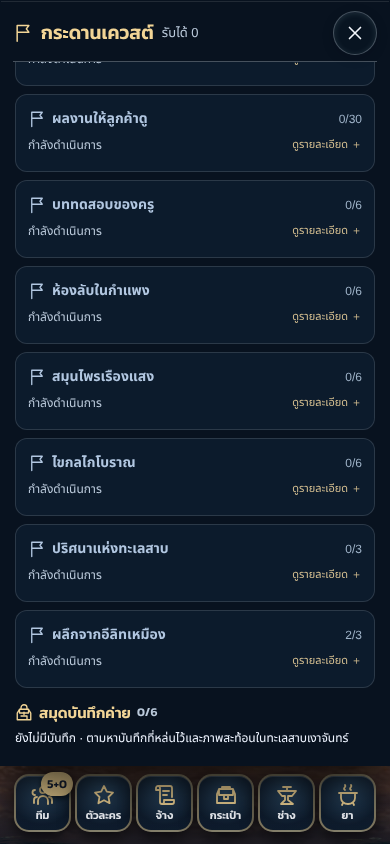
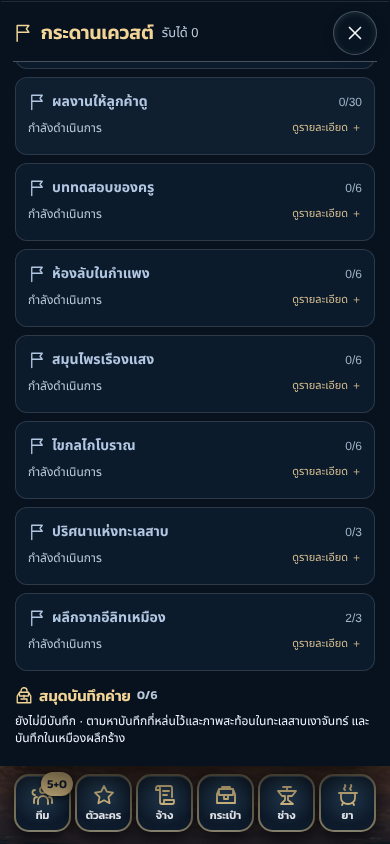
Merge the latest game branch and record the Map 5 side events
Mine sim at 48 seeds keeps the Crystal Giant targets; validation,
state and handoff updated.

Claude-Session: https://claude.ai/code/session_014iPEcJf2LN911FrkYV5BTv

Changed region(s): [[0.0308, 0.0616, 0.9538, 0.8934], [0.7385, 0.0616, 0.7692, 0.0924]]

diff --git a/docs/validation/map5-mine/README_TH.md b/docs/validation/map5-mine/README_TH.md
@@ -41,7 +41,25 @@
 
 Chromium 390×844 ผ่าน 8 รายการในชุดเหมืองและทะเลสาบ ตรวจการจุดตะเกียง ผนึก เติมแสง โหลดกลับมา เปิดศึกยักษ์ผลึก เข้าจากค่าย และเปิดกำแพงด้วยรถแร่ ใช้ภาพเดิมชั่วคราว การตรวจนี้ยืนยันการทำงานของหน้าจอใน Chromium ส่วนภาพและ motion ของยักษ์ผลึกยังรอการทบทวนด้วยคลิปจากสนามพร้อมฮีโร่ห้าคน
 
-งานเสริมที่ยังไม่ได้ทำ ได้แก่ เหตุการณ์สายแร่สด งานค่ายเก็บผลึกอีลิท และสูตรตีอาวุธผลึกจากสมุดบัญชี
+## เหตุการณ์ข้างทาง สูตรอาวุธผลึก และงานค่ายลุงบอร์ก (2026-11-26, PR #366, เซฟ v70)
+
+เจ้าของสั่ง “ทำเหตุการณ์ข้างทางของแผนที่ 5” ตัวเลขทั้งหมดยังเป็นร่าง เครื่องหมายบนแผนที่ยืมภาพของเดิม (Claude เลือกเอง ยังไม่ใช่การอนุมัติภาพจากเจ้าของ)
+
+| เหตุการณ์ | ที่ | ทางเลือก |
+|---|---|---|
+| คนงานติดอยู่ | อุโมงค์ฝั่งตะวันตก (6,13) | ช่วยขุดออก: แร่ 10 เศษกลาง 4 ทุกคนเหนื่อย +1 · เดินผ่าน |
+| รถแร่ทิ้งไว้ | ลานคนงาน (5,23) | ค้นรถแร่: ยาสุ่ม 1 ขวดที่ยังพกได้ (ตาม seed) พกเต็มทุกชนิดได้แร่ 8 · เดินผ่าน |
+| สายแร่สด | อุโมงค์ฝั่งตะวันออก (18,13) | ขุดแร่: แร่ 15 ภัยคุกคามในโซน +12 (ไม่เกินเพดาน) · เดินผ่าน |
+| พ่อค้าแร่ | ลานคนงาน (19,21) | ขายแร่ 10 ได้ทอง 4 สูงสุด 3 ครั้งต่อเที่ยว และขายยาเหมือนพ่อค้าเร่ |
+
+- สมุดบัญชีเหมืองครบ 3 หน้าแล้วกลับค่าย: ได้แร่ 20 ครั้งเดียว และปลดสูตร **อาวุธผลึก** ในแท็บสร้างอาวุธของเตาตีเหล็ก เป็นอาวุธแบบคงที่ระดับหายาก (ขั้น 2) เพิ่มคุณสมบัติโล่ จ่ายแพงกว่าแบบพื้นฐาน แร่ +12 ฝุ่น +4
+- งานค่ายลุงบอร์ก “ผลึกจากอีลิทเหมือง” ชนะอีลิทในเหมือง 3 ครั้ง ได้แร่ 40 ฝุ่น 15 เศษกลาง 10 · บันทึกสองหน้าที่หล่นในเหมืองเข้าสมุดบันทึกค่ายอยู่แล้ว
+- เซฟ v70 เพิ่มตัวนับการขายแร่ `sold` เซฟ v69 โหลดได้ตามเดิม แผนที่เหมืองเป็นรุ่น 2 การเดินทางที่ค้างจากรุ่น 1 กลับค่ายแบบถอนตัว
+- ตรวจคำสั่งฝั่งเซิร์ฟเวอร์รับทางเลือกเหตุการณ์ทุกแบบ ก่อนหน้านี้ไม่รับ “มองต่อ/เบือนหน้า” ของทะเลสาบ
+
+จำลอง 48 seed หลังเพิ่มเหตุการณ์ ([SIM.md](SIM.md)): สายสำรวจผ่านเหมืองครั้งแรก advisor 191/192 casual 190/192 (เดิม 192 และ 191) สายรีบไม่เปลี่ยน (191/192, 150/192) เป้ายักษ์ผลึกยังผ่านทุกข้อ
+
+หน้าจอ 390×844 Chromium: [คนงานติดอยู่](events-2026-11-26/01-event-trapped.webp) · [สายแร่สด](events-2026-11-26/02-event-vein.webp) · [พ่อค้าแร่ขายครบ](events-2026-11-26/03-event-merchant.webp) · [สูตรอาวุธผลึก](events-2026-11-26/04-forge-crystal.webp) · [งานค่ายลุงบอร์ก](events-2026-11-26/05-bork-job.webp) ถ่ายด้วย `npx playwright test tests/browser/mine-events.spec.ts`
 
 ## ภาพและคลิปสำหรับเจ้าของตรวจ (2026-11-26, 390×844 Chromium)
 

diff --git a/CURRENT_STATE.md b/CURRENT_STATE.md
@@ -1,11 +1,11 @@
-# Current state — updated 2026-11-26 (Crystal Giant 4b imported)
+# Current state — updated 2026-11-26 (Map 5 side events)
 
 Keep this file short; dated history lives in `docs/handoffs/CODEX-TO-CLAUDE.md` and `docs/handoffs/archive/`.
 
 ## Game
 
 - Working branch `feature/fateweave-initial-prototype` (not `main`); Pages https://wnau34-nptrn.github.io/asterveil-fateweave/ via `pages.yml` (runs the Chromium suite before deploy).
-- Save **v69** (mine progress; v68 map 4 tide/notes/journal, camp cap; v67 first fate weave; v66 gacha). Phaser/TypeScript/Vite, 1–5 field units, camp Lv/EXP, reserve 3→4→5, carry≤10, fatigue, presets. 15 classes×1 active character; thiran/wila parked. P09 server authority + ledger (`?server=off` for local).
+- Save **v70** (mine ore-merchant counter; v69 mine progress; v68 map 4 tide/notes/journal, camp cap; v67 first fate weave; v66 gacha). Phaser/TypeScript/Vite, 1–5 field units, camp Lv/EXP, reserve 3→4→5, carry≤10, fatigue, presets. 15 classes×1 active character; thiran/wila parked. P09 server authority + ledger (`?server=off` for local).
 - Maps: 1 ซากชายแดน, 2 เส้นทางป่าทึบ, 3 แนวรอยแยก, 4 ทะเลสาบเงาจันทร์, **5 เหมืองผลึกร้าง** (concepts for 4–10: [CHAPTER1_MAPS_TH](docs/design/CHAPTER1_MAPS_TH.md)).
 - **Map 4 (OD-60)**: rules/content/save #336, UI #337 and art #342–#345. Owner approved the four ordinary foes and the map screens 2026-11-23 (“อนุมัติ”). Tide every 8 steps, seal 2 of 3, ferryman → boat, reflections/notes → journal, Lio camp 1 / Cerise camp 2, semi-chibi Water Spirit with six 768px moves and event-driven VFX. [390px review](docs/validation/map4-lake/README_TH.md).
 - Camp level cap = 10 + 3 per first clear past map 2 (≤30); tree points still stop at Lv10.
@@ -29,7 +29,7 @@ Keep this file short; dated history lives in `docs/handoffs/CODEX-TO-CLAUDE.md` 
 
 ## Open items
 
-- Map 5 (OD-60, #356): save v69; giant tuned at 48 seeds (`crystal-giant` v2). Art in game: props, five semi-chibi foes, floors/rails/battle scene (#361–#363). Giant R1 1.32×, 4a approved; 4b (`77a6e4ba`, #359) imported on `claude/mine-boss-4b-intake` with event-driven armour/reflect/collapse/split VFX, owner approved the motion 2026-11-26 (“อนุมัติ”), merged in #365 ([390px review](docs/combat-presentation/mine-boss-slice/README_TH.md)); Shard Beam keeps a code-drawn line. Side events remain. [Brief](docs/handoffs/CODEX-ART-MAP5-MINE-TH.md) · [validation](docs/validation/map5-mine/README_TH.md). Game Feel #351/#352 notes moved to `docs/handoffs/archive/2026-11-26/`.
+- Map 5 (OD-60): complete in game. Save v70, mine map v2, giant tuned at 48 seeds (`crystal-giant` v2); art #357–#363, giant 4b motion approved (“อนุมัติ”, #365). Side events #366: trapped worker, ore cart, fresh vein, ore merchant (ore→gold ×3), ledger → crystal weapon recipe, Bork's elite job ×3. Event markers borrow old props (no Codex brief yet); numbers are drafts. [Validation](docs/validation/map5-mine/README_TH.md).
 - 2026-11-25: boss charge holds sit on the body. Bosses wear a silhouette aura in their own colour: light all battle, stronger while charging. Boss crowns sit above the rendered figure. The owner said “นำเข้าเกมได้เลย”. Mobile frame rate is not measured yet. [Check](docs/validation/boss-hold-placement-2026-11-25/README_TH.md).
 - Game Feel [Draft PR #353](https://github.com/wnau34-nptrn/asterveil-fateweave/pull/353): เสียงและภาพโจมตีตามอาวุธครบ 15 ตัวและตัวละครเซฟเก่า 2 ตัว. [ผลตรวจ](docs/validation/roster-contact-2026-11-24/README_TH.md).
 
@@ -40,4 +40,4 @@ Keep this file short; dated history lives in `docs/handoffs/CODEX-TO-CLAUDE.md` 
 
 ## Opening prompt for next chat
 
-The owner picks the next task. Candidate next work: Map 5 side events (see [the Map 5 validation](docs/validation/map5-mine/README_TH.md)).
+The owner picks the next task. Candidates: Map 6 บึงหมอกพิษ (OD-60 order: rules + content + sim → screens → Codex art; concept in [CHAPTER1_MAPS_TH §6](docs/design/CHAPTER1_MAPS_TH.md)), or a Codex brief for the Map 5 event markers (trapped worker, ore cart, fresh vein, ore merchant).

diff --git a/docs/handoffs/CODEX-TO-CLAUDE.md b/docs/handoffs/CODEX-TO-CLAUDE.md
@@ -1,3 +1,11 @@
+## 2026-11-26 — เหตุการณ์ข้างทางแผนที่ 5 (Claude · `claude/mine-side-events` · PR #366)
+
+- เจ้าของสั่ง “ทำเหตุการณ์ข้างทางของแผนที่ 5”: คนงานติดอยู่ (ขุด/ผ่าน), รถแร่ทิ้งไว้ (ยาสุ่มตาม seed), สายแร่สด (แร่แลกภัยคุกคาม), พ่อค้าแร่ (แร่→ทอง 3 ครั้ง/เที่ยว + ยา) ผ่าน `chooseEvent` เดิม
+- สมุดบัญชีเหมืองครบปลดสูตรอาวุธผลึก (`forge.crystal`, ผ่าน `storyQuests`) · งานค่ายลุงบอร์ก `smith-mine-crystals` อีลิทเหมือง ×3 · เซฟ v70 (`sold`), แผนที่เหมือง v2
+- แก้ด้วย: ตรวจคำสั่งฝั่งเซิร์ฟเวอร์ไม่รับ `gaze`/`away` ของทะเลสาบ ตอนนี้ใช้รายการเดียว `EVENT_CHOICE_IDS`
+- Vitest ทั้งชุดผ่าน, typecheck/lint/build, Chromium `mine-events` 6/6 + spec เกี่ยวข้อง 26/26, CI quality+browser ผ่าน · จำลอง 48 seed เป้ายักษ์ผลึกคงเดิม [ผลตรวจ](../validation/map5-mine/README_TH.md)
+- เปิดค้าง: ภาพเครื่องหมายเหตุการณ์ยืมของเดิม (รอ Codex) ตัวเลขเป็นร่างจนถึงรอบเศรษฐกิจ P04
+
 ## 2026-11-26 — นำเข้ายักษ์ผลึก R1 ชุดเต็ม 4b (Claude · `claude/mine-boss-4b-intake`)
 
 - PR #359 (`77a6e4ba`) ไฟล์ตรง SHA-256 ครบ `scripts/build-mine-boss.py` แพ็กยักษ์ 26 เฟรม (cell 448 เท้า 7/8, อัตรา 1.67 = 1.32× โกเลมหิน) ผลึกย่อย 10 เฟรม และ VFX 16 ชั้น lossless · ภาพนิ่ง/พอร์เทรต foes4 ช่อง 5–6

diff --git a/docs/validation/map5-mine/SIM.md b/docs/validation/map5-mine/SIM.md
@@ -8,18 +8,18 @@ Campaign maps 1–5 in order with no post-clear replays, 48 seeds per starter pa
 | advisor | rush | lio + sefa | 48/48 | 48/48 | 48/49 | 0/49 | 0/49 |
 | advisor | rush | toma + brann | 48/48 | 48/48 | 48/48 | 0/48 | 0/48 |
 | advisor | rush | toma + sefa | 48/48 | 48/48 | 48/50 | 0/50 | 0/50 |
-| advisor | explorer | lio + brann | 48/48 | 48/48 | 48/50 | 10/50 | 0/50 |
-| advisor | explorer | lio + sefa | 48/48 | 48/48 | 48/53 | 13/53 | 1/53 |
-| advisor | explorer | toma + brann | 48/48 | 48/48 | 48/49 | 8/49 | 6/49 |
-| advisor | explorer | toma + sefa | 48/48 | 48/48 | 48/48 | 1/48 | 1/48 |
+| advisor | explorer | lio + brann | 48/48 | 48/48 | 48/53 | 14/53 | 3/53 |
+| advisor | explorer | lio + sefa | 48/48 | 47/48 | 47/54 | 15/54 | 2/54 |
+| advisor | explorer | toma + brann | 48/48 | 48/48 | 48/48 | 6/48 | 2/48 |
+| advisor | explorer | toma + sefa | 48/48 | 48/48 | 48/49 | 2/49 | 1/49 |
 | casual | rush | lio + brann | 48/48 | 37/48 | 37/70 | 0/70 | 0/70 |
 | casual | rush | lio + sefa | 48/48 | 36/48 | 36/68 | 0/68 | 0/68 |
 | casual | rush | toma + brann | 48/48 | 42/48 | 43/61 | 0/61 | 0/61 |
 | casual | rush | toma + sefa | 48/48 | 35/48 | 36/67 | 2/67 | 0/67 |
-| casual | explorer | lio + brann | 48/48 | 48/48 | 48/58 | 13/58 | 4/58 |
-| casual | explorer | lio + sefa | 48/48 | 48/48 | 48/59 | 16/59 | 4/59 |
-| casual | explorer | toma + brann | 48/48 | 48/48 | 48/54 | 10/54 | 9/54 |
-| casual | explorer | toma + sefa | 48/48 | 47/48 | 47/52 | 9/52 | 6/52 |
+| casual | explorer | lio + brann | 48/48 | 48/48 | 48/55 | 15/55 | 4/55 |
+| casual | explorer | lio + sefa | 48/48 | 47/48 | 47/59 | 15/59 | 6/59 |
+| casual | explorer | toma + brann | 48/48 | 47/48 | 47/56 | 7/56 | 5/56 |
+| casual | explorer | toma + sefa | 48/48 | 48/48 | 48/57 | 12/57 | 5/57 |
 
 ## Boss entry stress test
 
